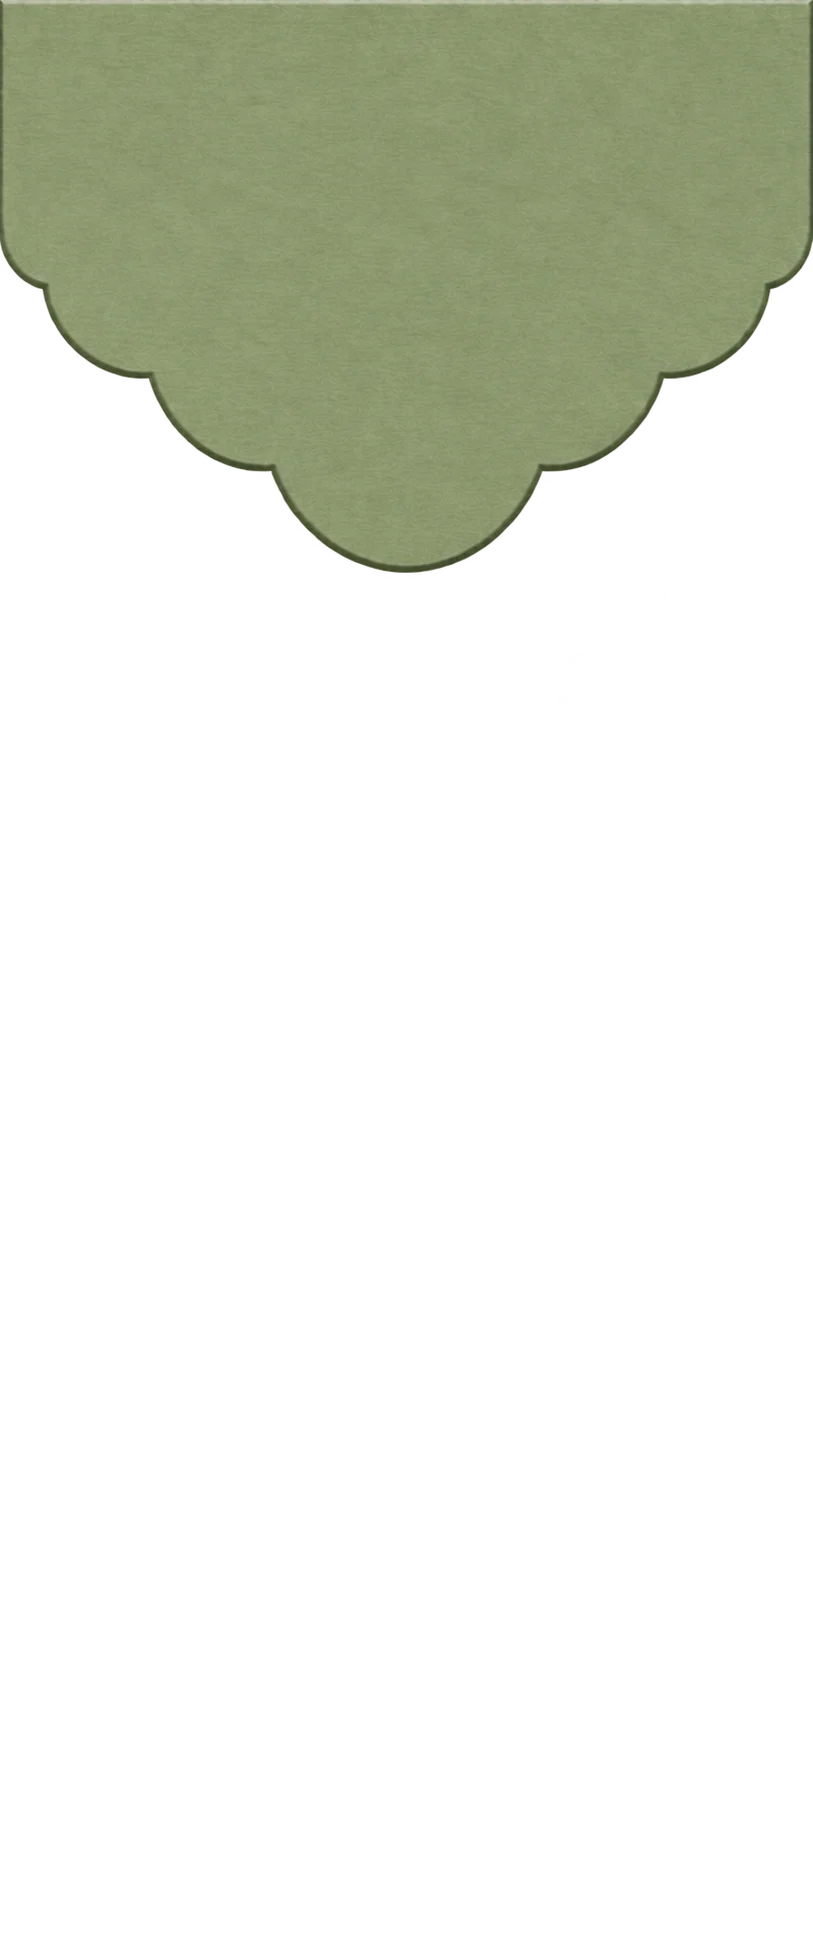
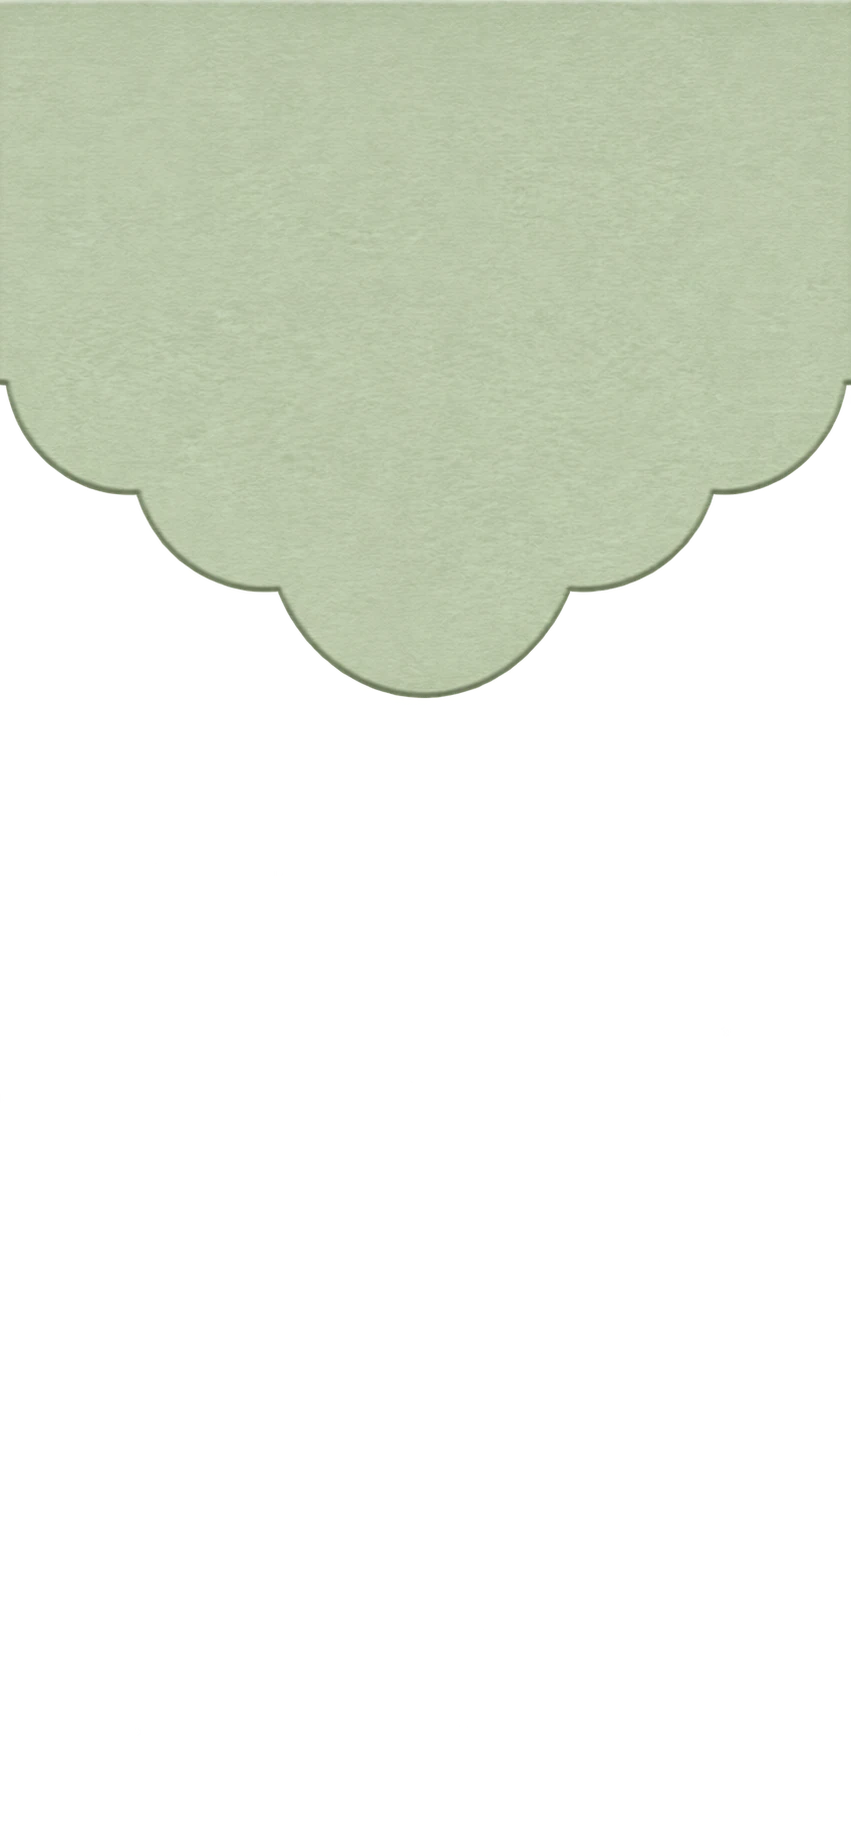
Use the sage envelope body and scalloped flap in place of the Bloom envelope.

diff --git a/src/components/SageInvite.tsx b/src/components/SageInvite.tsx
@@ -228,9 +228,9 @@ export function SageInvite({ fields, quiet = false, onReply }: { fields: InviteF
         {phase === "closed" || phase === "opening" ? (
           <div className="sa-env">
             <div className="sa-sheet">
-              <img className="fit sa-front" src="/bloom/envelope.webp" alt="" />
+              <img className="fit sa-front" src="/sage/envelope.webp" alt="" />
               <div className="sa-flap">
-                <img src="/bloom/flap.webp" alt="" />
+                <img src="/sage/flap.webp" alt="" />
                 <span className="sa-flap-back" />
               </div>
               <img className="sa-bow" src="/sage/ivory-bow.webp" alt="" />

diff --git a/src/components/sage.css b/src/components/sage.css
@@ -186,8 +186,8 @@
   transform: rotateX(180deg);
   backface-visibility: hidden;
   background: #e2decb;
-  -webkit-mask-image: url("/bloom/flap.webp");
-  mask-image: url("/bloom/flap.webp");
+  -webkit-mask-image: url("/sage/flap.webp");
+  mask-image: url("/sage/flap.webp");
   -webkit-mask-size: 100% 100%;
   mask-size: 100% 100%;
 }
